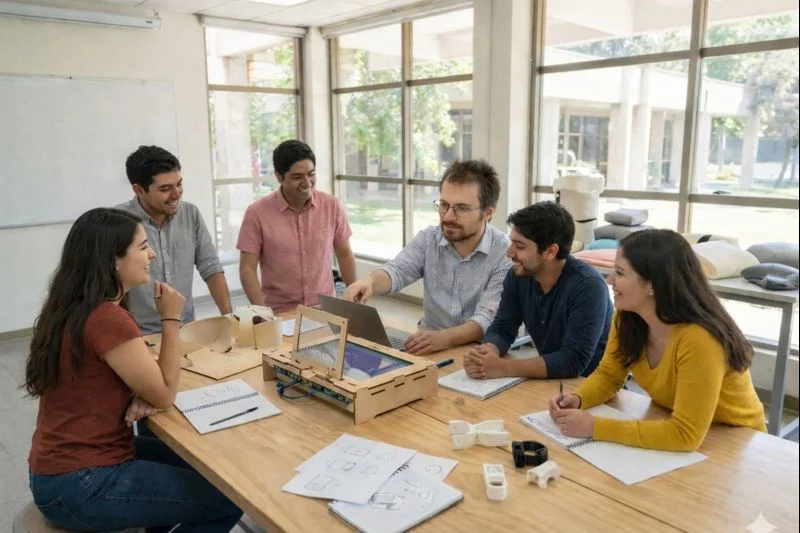
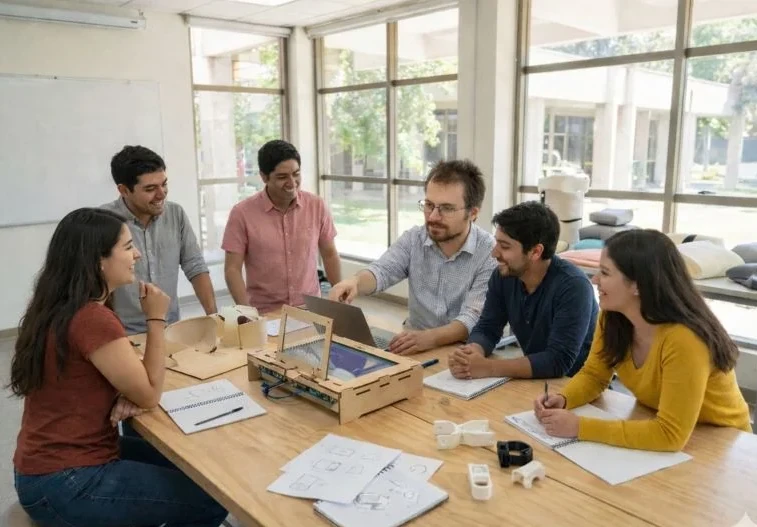
Add files via upload

diff --git a/newindex.html b/newindex.html
@@ -88,16 +88,9 @@
                 </div>
 
                 <!-- Imagen Placeholder -->
-                <div class="lg:w-2/5 order-1 lg:order-2 flex justify-center">
-                    <div class="relative w-64 h-64 lg:w-80 lg:h-80">
-                        <div class="absolute inset-0 bg-blue-100 rounded-full mix-blend-multiply filter blur-2xl opacity-70 animate-blob"></div>
-                        <div class="absolute inset-0 bg-indigo-100 rounded-full mix-blend-multiply filter blur-2xl opacity-70 animate-blob animation-delay-2000 ml-10"></div>
-                        
-                        <div class="relative w-full h-full rounded-full overflow-hidden border-4 border-white shadow-2xl bg-slate-200 flex items-center justify-center">
-                            <img src="main.webp"/>
-                        </div>
-                    </div>
-                </div>
+                <div class="lg:w-2/5 order-1 lg:order-2 flex justify-center overflow-hidden rounded-full">
+					<img class="block w-full h-auto" src="main.webp" />
+				</div>
             </div>
         </div>
     </header>
@@ -381,7 +374,7 @@
                 description: `
                     <p class="mb-4"><strong>Pregunta de investigación:</strong> ¿Es realmente necesario el hardware electrónico costoso para aprender pensamiento computacional?</p>
                     <p class="mb-4">Este proyecto desafía la dependencia de microcontroladores físicos (como Arduino) en la educación. Basándonos en teorías de <em>embodied cognition</em>, investigamos si la <strong>materialidad de la experiencia</strong> (tocar, mover, construir) es más importante que la electrónica en sí.</p>
-                    <p class="mb-4"><strong>Lo que haremos:</strong> Diseñaremos y evaluaremos "manipulables computacionales" de bajo costo utilizando materiales cotidianos (cartón, papel) aumentados mediante <strong>smartphones y visión por computador</strong>.</p>
+                    <p class="mb-4"><strong>Lo que haremos:</strong> Diseñaremos y evaluaremos "manipulables computacionales" de bajo costo utilizando materiales cotidianos (cartón, papel) aumentados mediante <strong>smartphones con sus sensores y actuadores</strong>.</p>
                     <p><strong>Perfil buscado:</strong> Estudiantes interesados en HCI, Educación, Prototipado físico (DIY) y desarrollo móvil.</p>
                 `
             },
